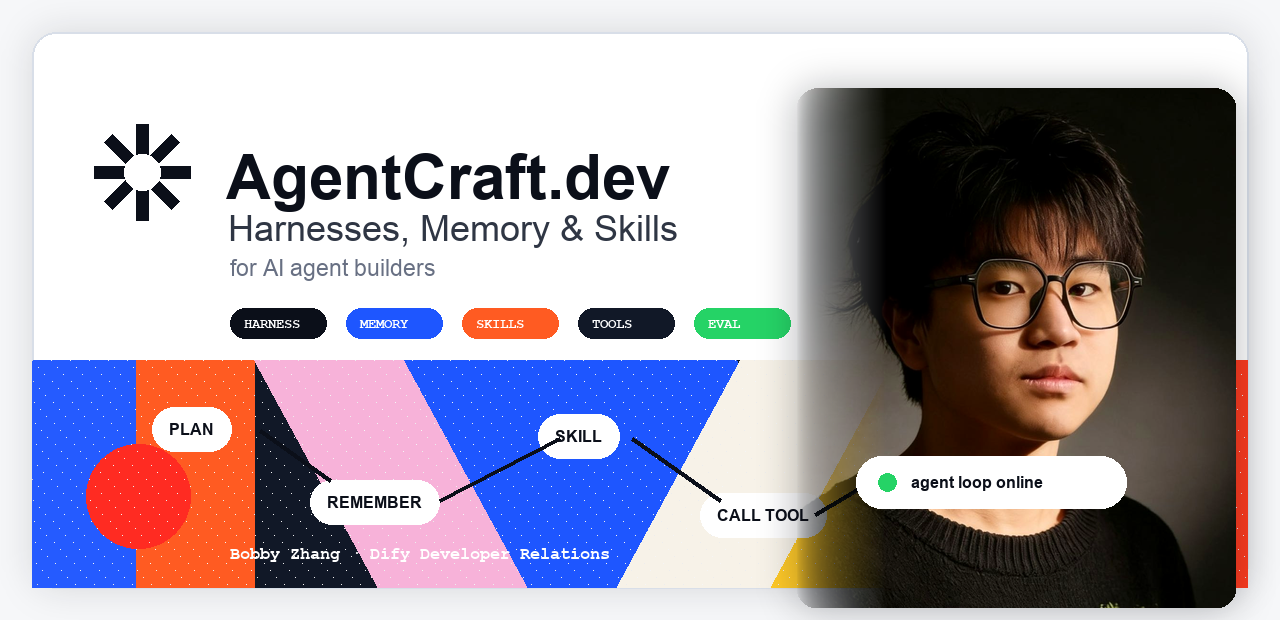
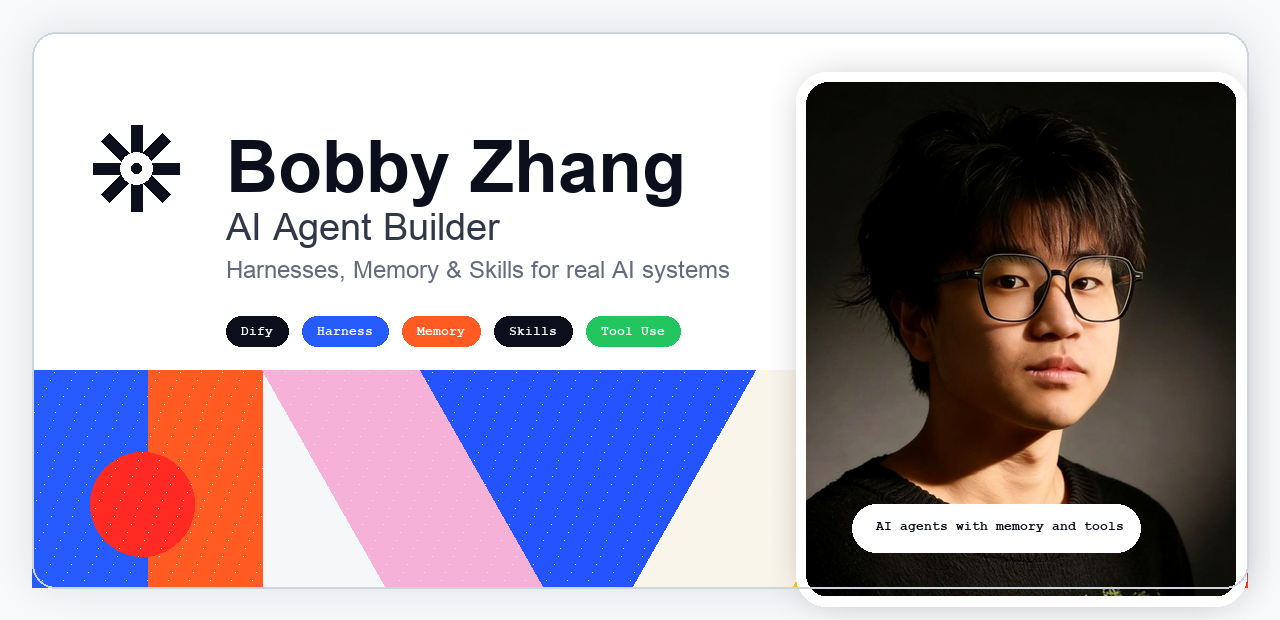
Remove AgentCraft branding from profile hero

Changed region(s): [[0.0, 0.1226, 1.0, 0.9806], [0.0625, 0.1839, 0.5625, 0.4597], [0.0625, 0.7968, 0.1562, 0.95]]

diff --git a/README.md b/README.md
@@ -1,5 +1,5 @@
 <p align="center">
-  <img src="./assets/profile-hero.png" width="100%" alt="Bobby Zhang - AgentCraft: harnesses, memory, and skills for AI builders" />
+  <img src="./assets/profile-hero.png" width="100%" alt="Bobby Zhang - AI Agent Builder: harnesses, memory, and skills for real AI systems" />
 </p>
 
 <p align="center">
